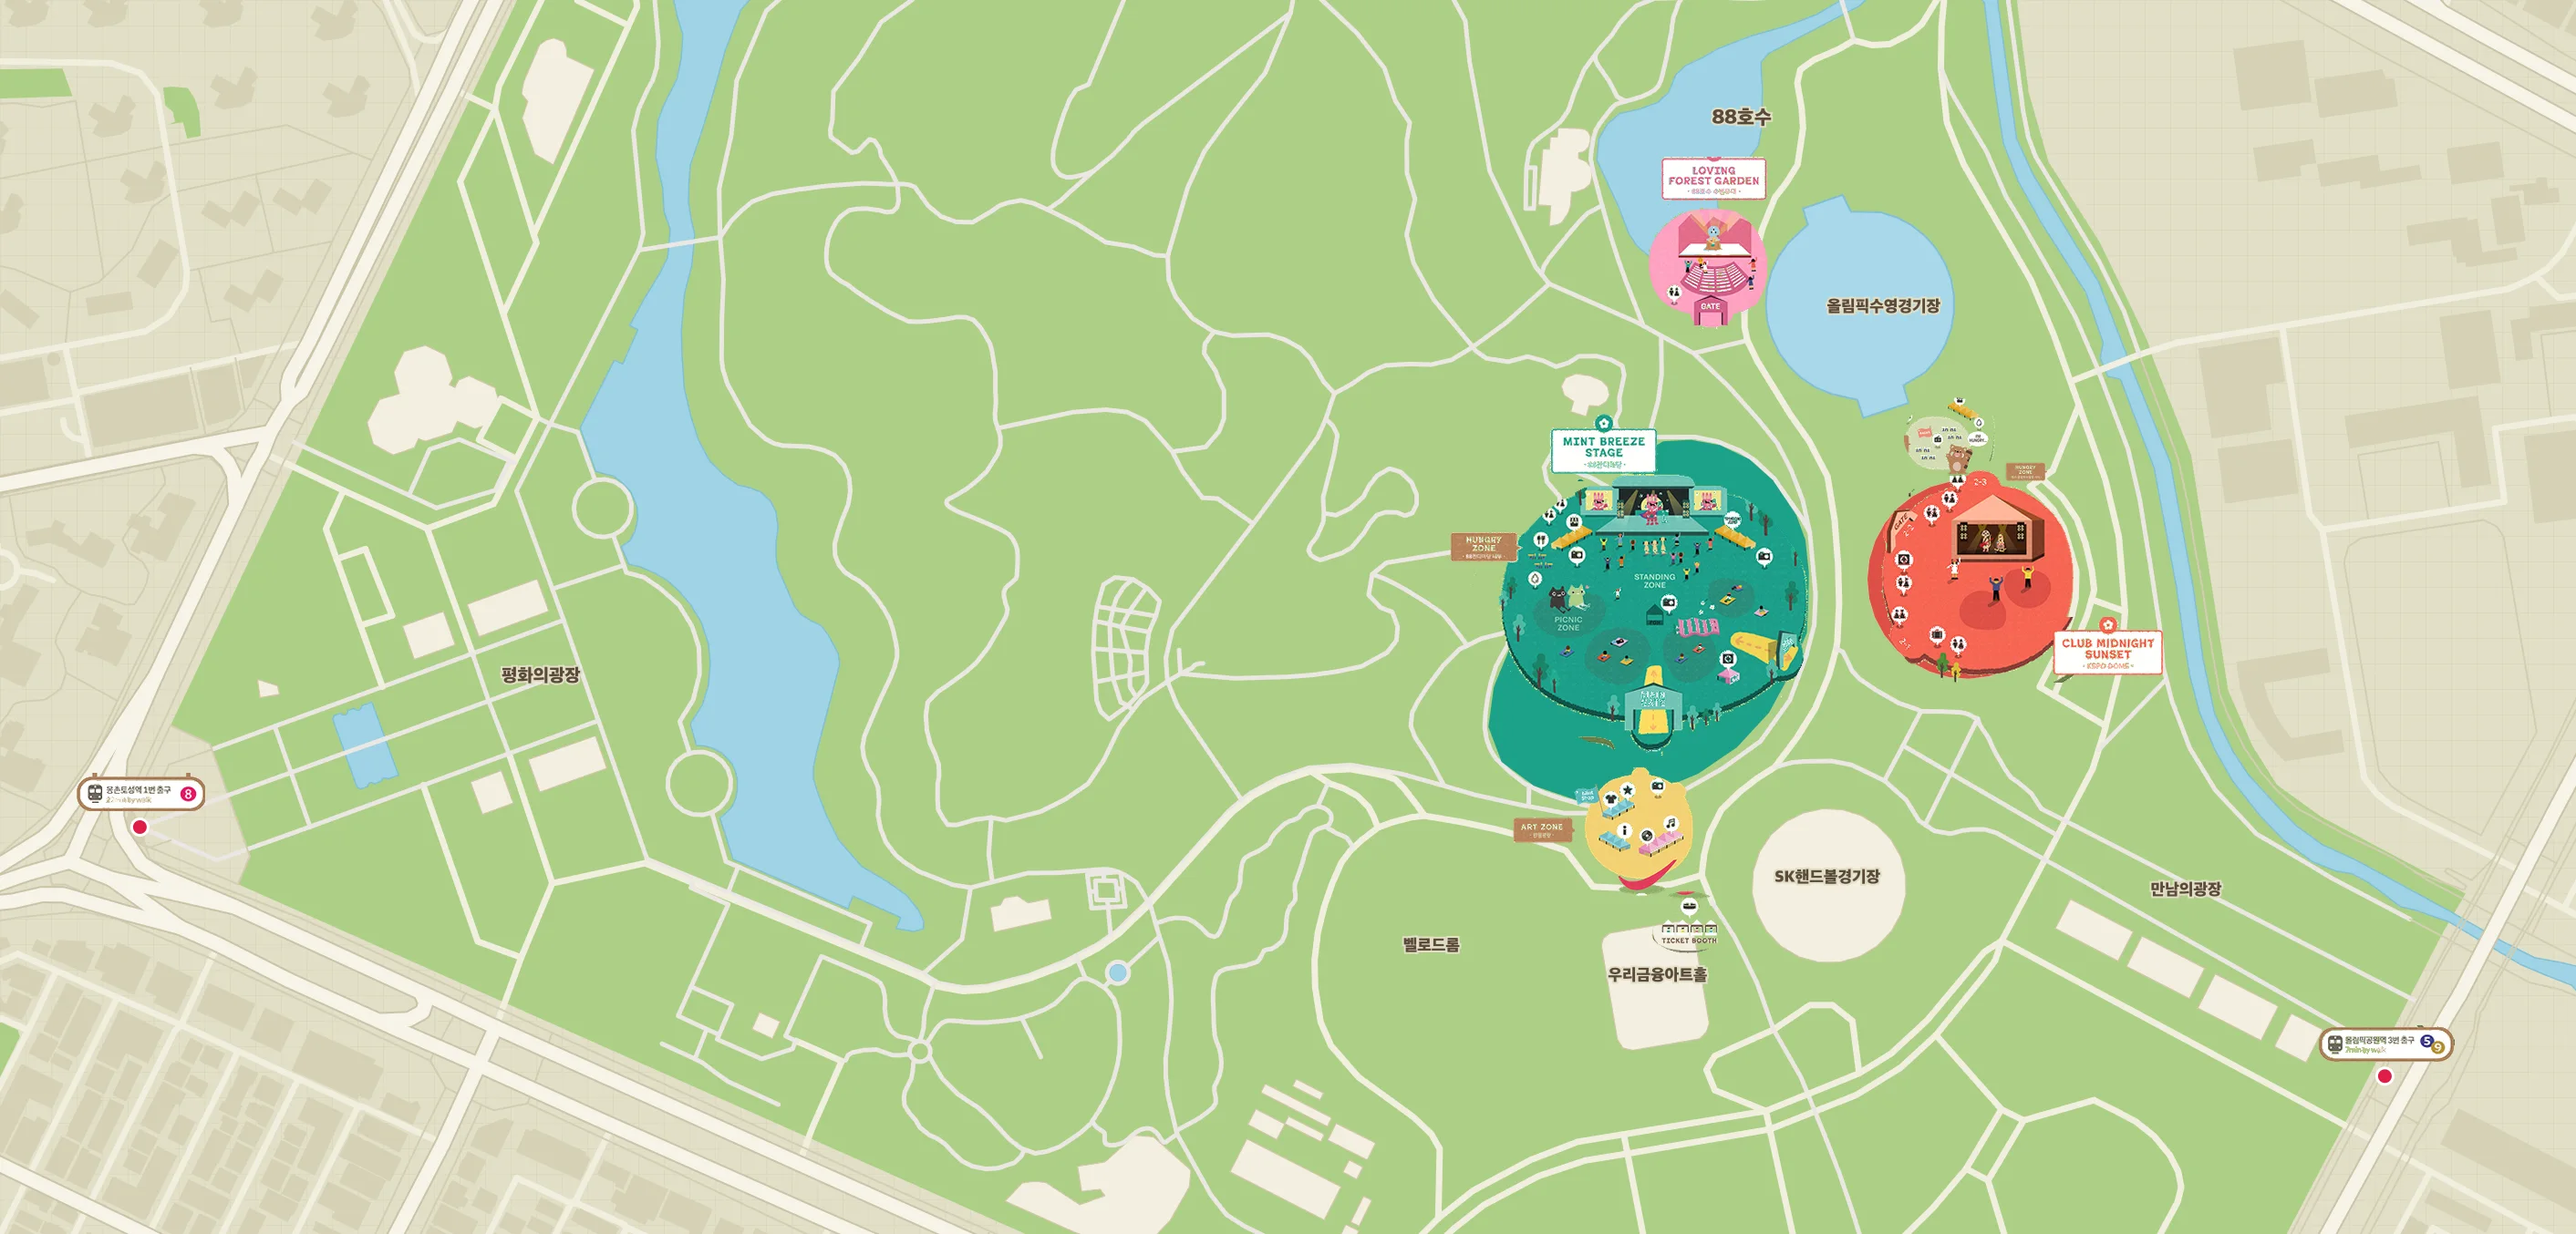
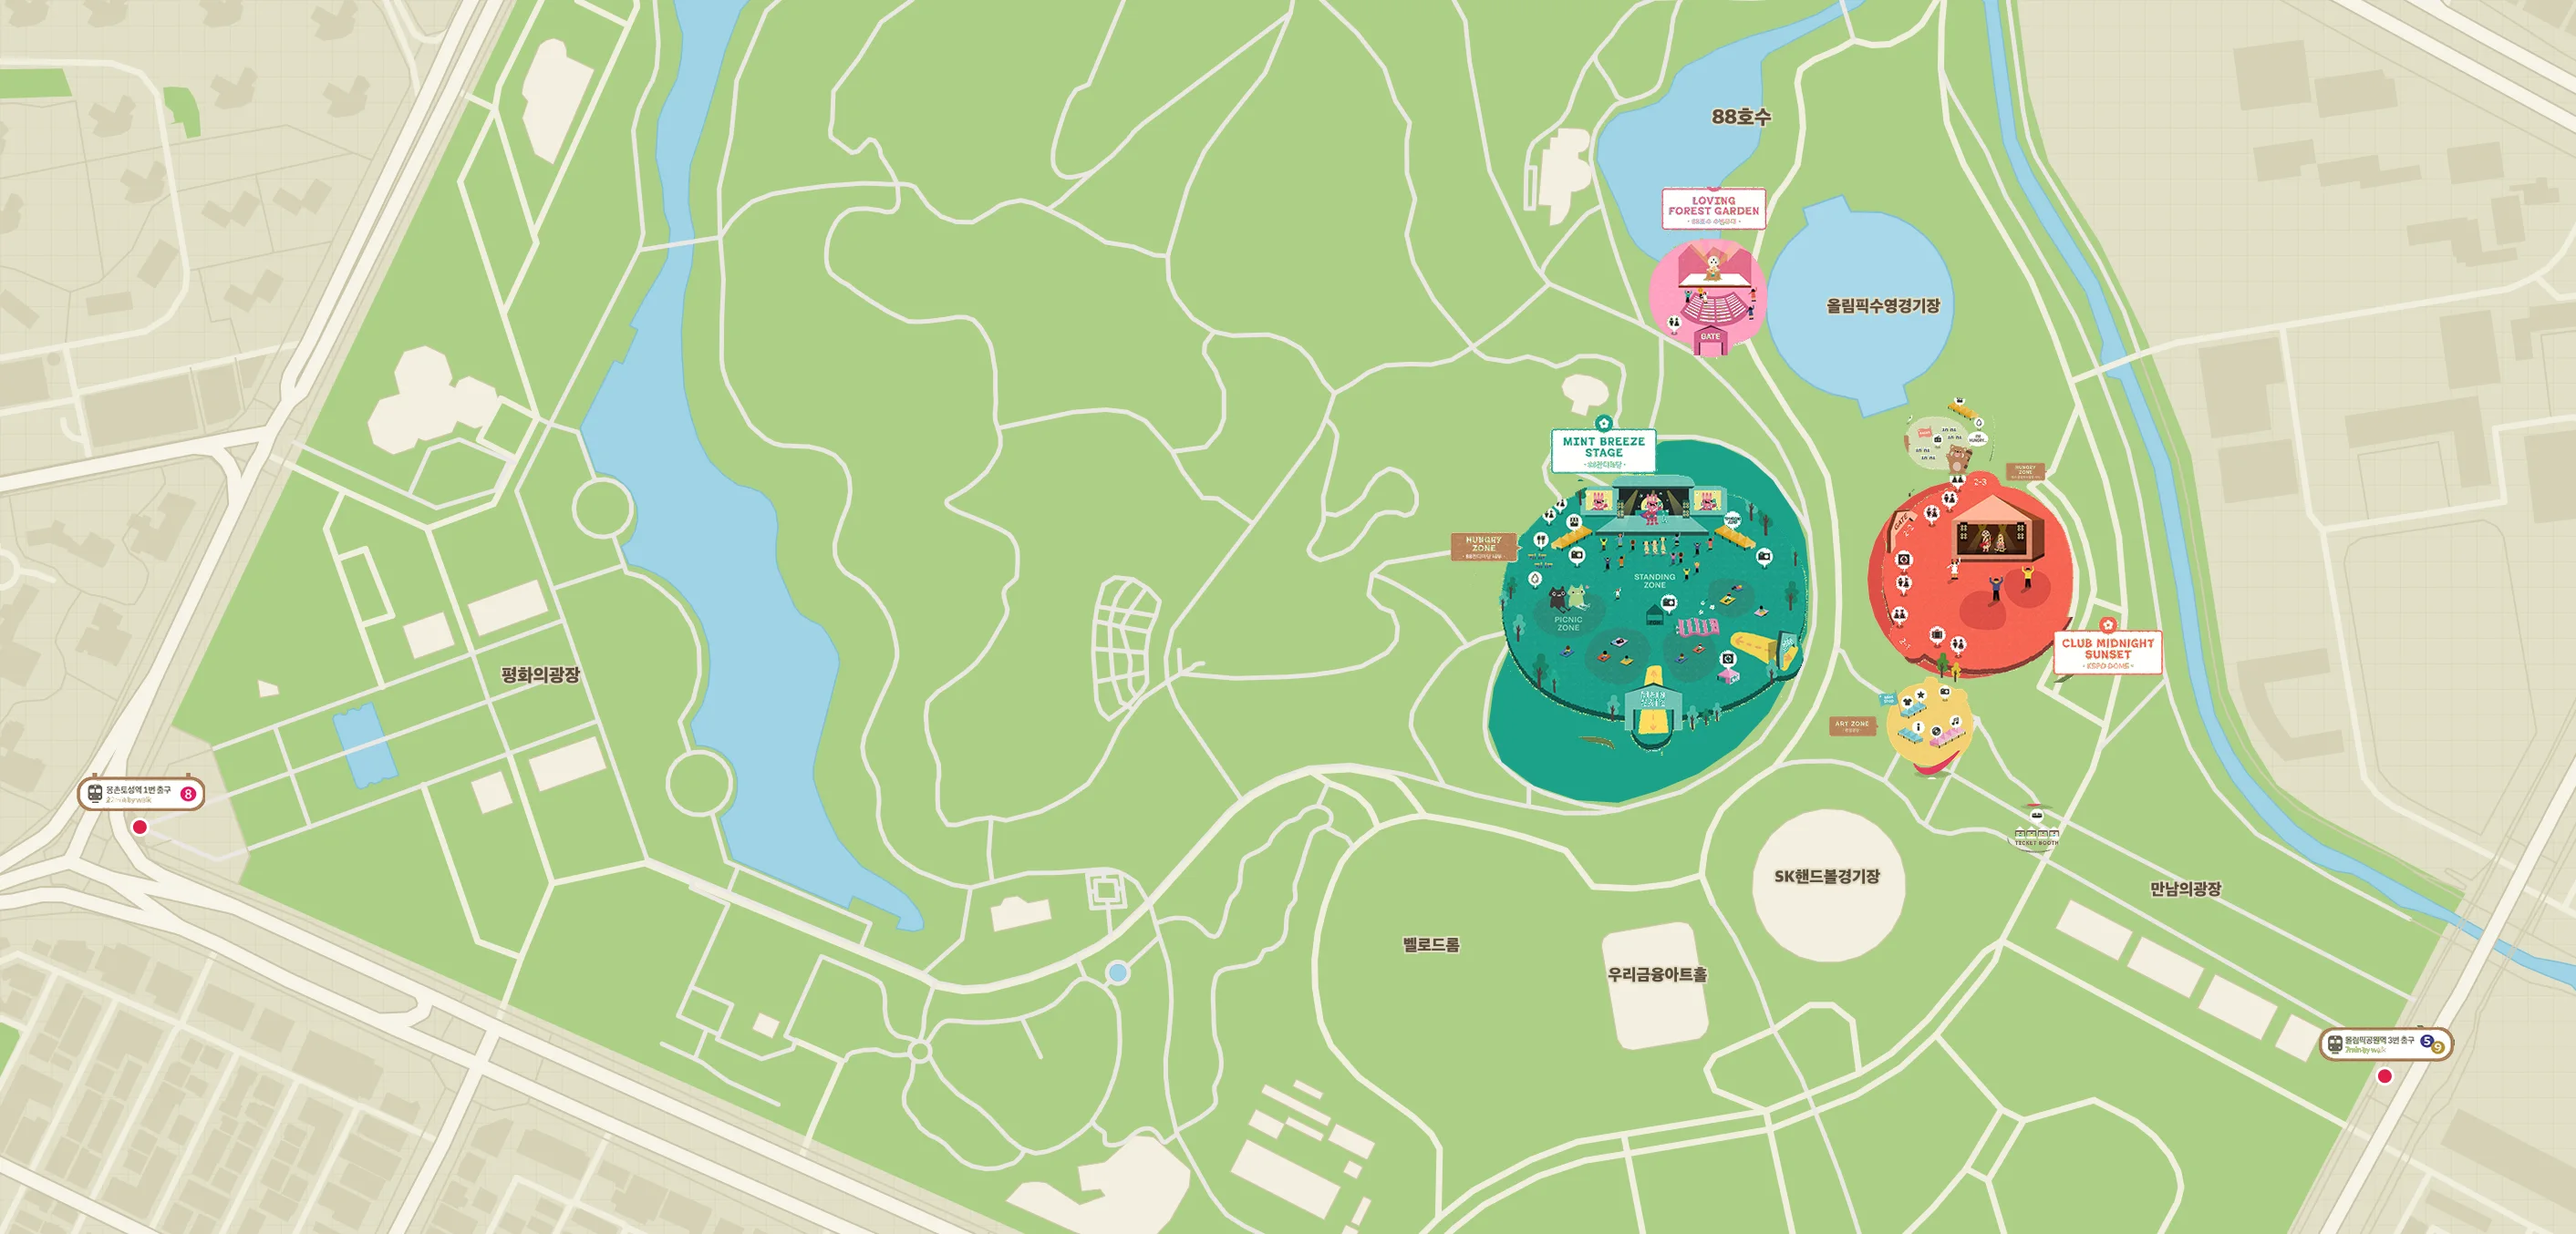
fix: place GMF zones at their real spots and fold map credits
- Art Zone moved to 한얼광장, right south of KSPO DOME (between the dome
  and the handball arena); no longer marked as estimated
- Ticket booth follows the official layout: below Art Zone, toward
  올림픽공원역 3번 출구 (still estimated)
- Loving Forest Garden anchored on its drawn stage so the seating sits on
  land south of the lakeside 수변무대 instead of over the water
- Map credits (OSM licence + official map) live behind a corner ⓘ
  instead of an always-on line over the map

diff --git a/src/features/map/useLeafletMap.ts b/src/features/map/useLeafletMap.ts
@@ -21,7 +21,7 @@ interface Options {
 function setUpLayers(map: L.Map, { center, image, fitPoints }: Options): () => void {
   if (image) {
     const bounds = L.latLngBounds(image.bounds.map(([lat, lng]) => [lat, lng] as L.LatLngTuple))
-    L.imageOverlay(image.imageUrl, bounds, { attribution: image.attribution }).addTo(map)
+    L.imageOverlay(image.imageUrl, bounds).addTo(map)
     map.setMaxBounds(bounds)
     map.fitBounds(image.initialView.map(([lat, lng]) => [lat, lng] as L.LatLngTuple))
     // Open with the image filling the screen (no empty bands); zooming out further is still allowed.
@@ -53,9 +53,11 @@ export function useLeafletMap(options: Options) {
       maxZoom: MAX_ZOOM,
       zoomSnap: image ? IMAGE_ZOOM_SNAP : 1,
       maxBoundsViscosity: image ? 1 : 0,
+      // Illustrated maps show their credits behind an ⓘ button (MapCredits); tile maps keep Leaflet's line.
+      attributionControl: !image,
     })
     const onResize = setUpLayers(instance, initialOptions.current)
-    instance.attributionControl.setPrefix(false)
+    instance.attributionControl?.setPrefix(false)
     L.control.zoom({ position: 'bottomright' }).addTo(instance)
     // The bottom panel changes height (collapsed, list, form), so keep Leaflet's size in sync.
     const resizeObserver = new ResizeObserver(() => {

diff --git a/src/features/map/map.css b/src/features/map/map.css
@@ -272,3 +272,42 @@
   justify-content: flex-end;
   gap: var(--space-2);
 }
+
+/* Credits for illustrated maps: a small ⓘ in the corner that opens the attribution */
+.map-credits {
+  position: absolute;
+  left: var(--space-3);
+  bottom: var(--space-3);
+  z-index: 500;
+  display: flex;
+  align-items: center;
+  gap: var(--space-2);
+  max-width: calc(100% - 96px);
+}
+
+.map-credits__toggle {
+  flex: none;
+  display: grid;
+  place-items: center;
+  width: 28px;
+  height: 28px;
+  border: 2px solid var(--color-ink);
+  border-radius: 50%;
+  background: var(--color-surface);
+  color: var(--color-ink);
+  font-family: Georgia, 'Times New Roman', serif;
+  font-style: italic;
+  font-weight: 700;
+  font-size: 14px;
+  line-height: 1;
+}
+
+.map-credits__text {
+  margin: 0;
+  padding: 4px 10px;
+  border-radius: var(--radius-chip);
+  background: var(--color-surface);
+  color: var(--color-ink);
+  font-size: 11px;
+  box-shadow: var(--shadow-ticket);
+}

diff --git a/src/data/presets/grandMint2026.ts b/src/data/presets/grandMint2026.ts
@@ -100,7 +100,7 @@ const PINS: ReadonlyArray<Omit<Pin, 'id'>> = [
   { name: 'Radar · 체조경기장–수영장 사이 (대략)', kind: 'etc', ...anchor('radar') },
   { name: 'Hungry Zone · 체조경기장–수영장 사이 (대략)', kind: 'food', ...anchor('hungryZoneEast') },
   { name: 'Hungry Zone · 88잔디마당 안 (대략)', kind: 'food', ...anchor('hungryZoneLawn') },
-  { name: 'Art Zone · 한얼광장 (대략)', kind: 'etc', ...anchor('artZone') },
+  { name: 'Art Zone · 한얼광장', kind: 'etc', ...anchor('artZone') },
   { name: '티켓 부스 (대략)', kind: 'etc', ...anchor('ticketBooth') },
   { name: '올림픽공원역 3번 출구 (5·9호선)', kind: 'etc', ...anchor('olympicParkExit3') },
   { name: '몽촌토성역 1번 출구 (8호선)', kind: 'etc', ...anchor('mongchonExit1') },

diff --git a/src/features/map/MapCredits.tsx b/src/features/map/MapCredits.tsx
@@ -1,0 +1,23 @@
+import { useState } from 'react'
+
+/**
+ * OpenStreetMap's licence needs its credit with the map, and its attribution guidelines allow a
+ * corner ⓘ that opens it on small screens — so the credit does not cover the map all the time.
+ */
+export function MapCredits({ text }: { text: string }) {
+  const [open, setOpen] = useState(false)
+  return (
+    <div className={`map-credits${open ? ' is-open' : ''}`}>
+      <button
+        type="button"
+        className="map-credits__toggle"
+        aria-label="지도 출처"
+        aria-expanded={open}
+        onClick={() => setOpen((v) => !v)}
+      >
+        i
+      </button>
+      {open && <p className="map-credits__text">{text}</p>}
+    </div>
+  )
+}

diff --git a/src/features/map/MapView.tsx b/src/features/map/MapView.tsx
@@ -9,6 +9,7 @@ import { useStoredFlag } from '../../hooks/useStoredFlag'
 import { distanceMeters, formatDistance, isInsideBounds, type LatLng } from '../../lib/geo'
 import { makeId } from '../../lib/id'
 import { festivalMapFor } from './festivalMaps'
+import { MapCredits } from './MapCredits'
 import { PinForm } from './PinForm'
 import { PIN_META } from './pinMeta'
 import { useLeafletMap } from './useLeafletMap'
@@ -146,6 +147,7 @@ export default function MapView({ festival }: { festival: Festival }) {
           </button>
         </div>
         {hint}
+        {festivalMap && <MapCredits text={festivalMap.attribution} />}
       </div>
 
       <div className={`map-panel${collapsed && !draft ? ' is-collapsed' : ''}`}>

diff --git a/src/data/presets/grandMint2026.test.ts b/src/data/presets/grandMint2026.test.ts
@@ -49,7 +49,7 @@ describe('createGrandMint2026', () => {
 
   test('marks the zones whose position is estimated', () => {
     const estimated = festival.pins.filter((pin) => pin.name.includes('(대략)')).map((pin) => pin.name.split(' ·')[0])
-    expect(estimated).toEqual(expect.arrayContaining(['Radar', 'Hungry Zone', 'Art Zone', '티켓 부스 (대략)']))
+    expect(estimated).toEqual(expect.arrayContaining(['Radar', 'Hungry Zone', '티켓 부스 (대략)']))
   })
 
   test('uses stable ids so re-adding replaces instead of duplicating', () => {
